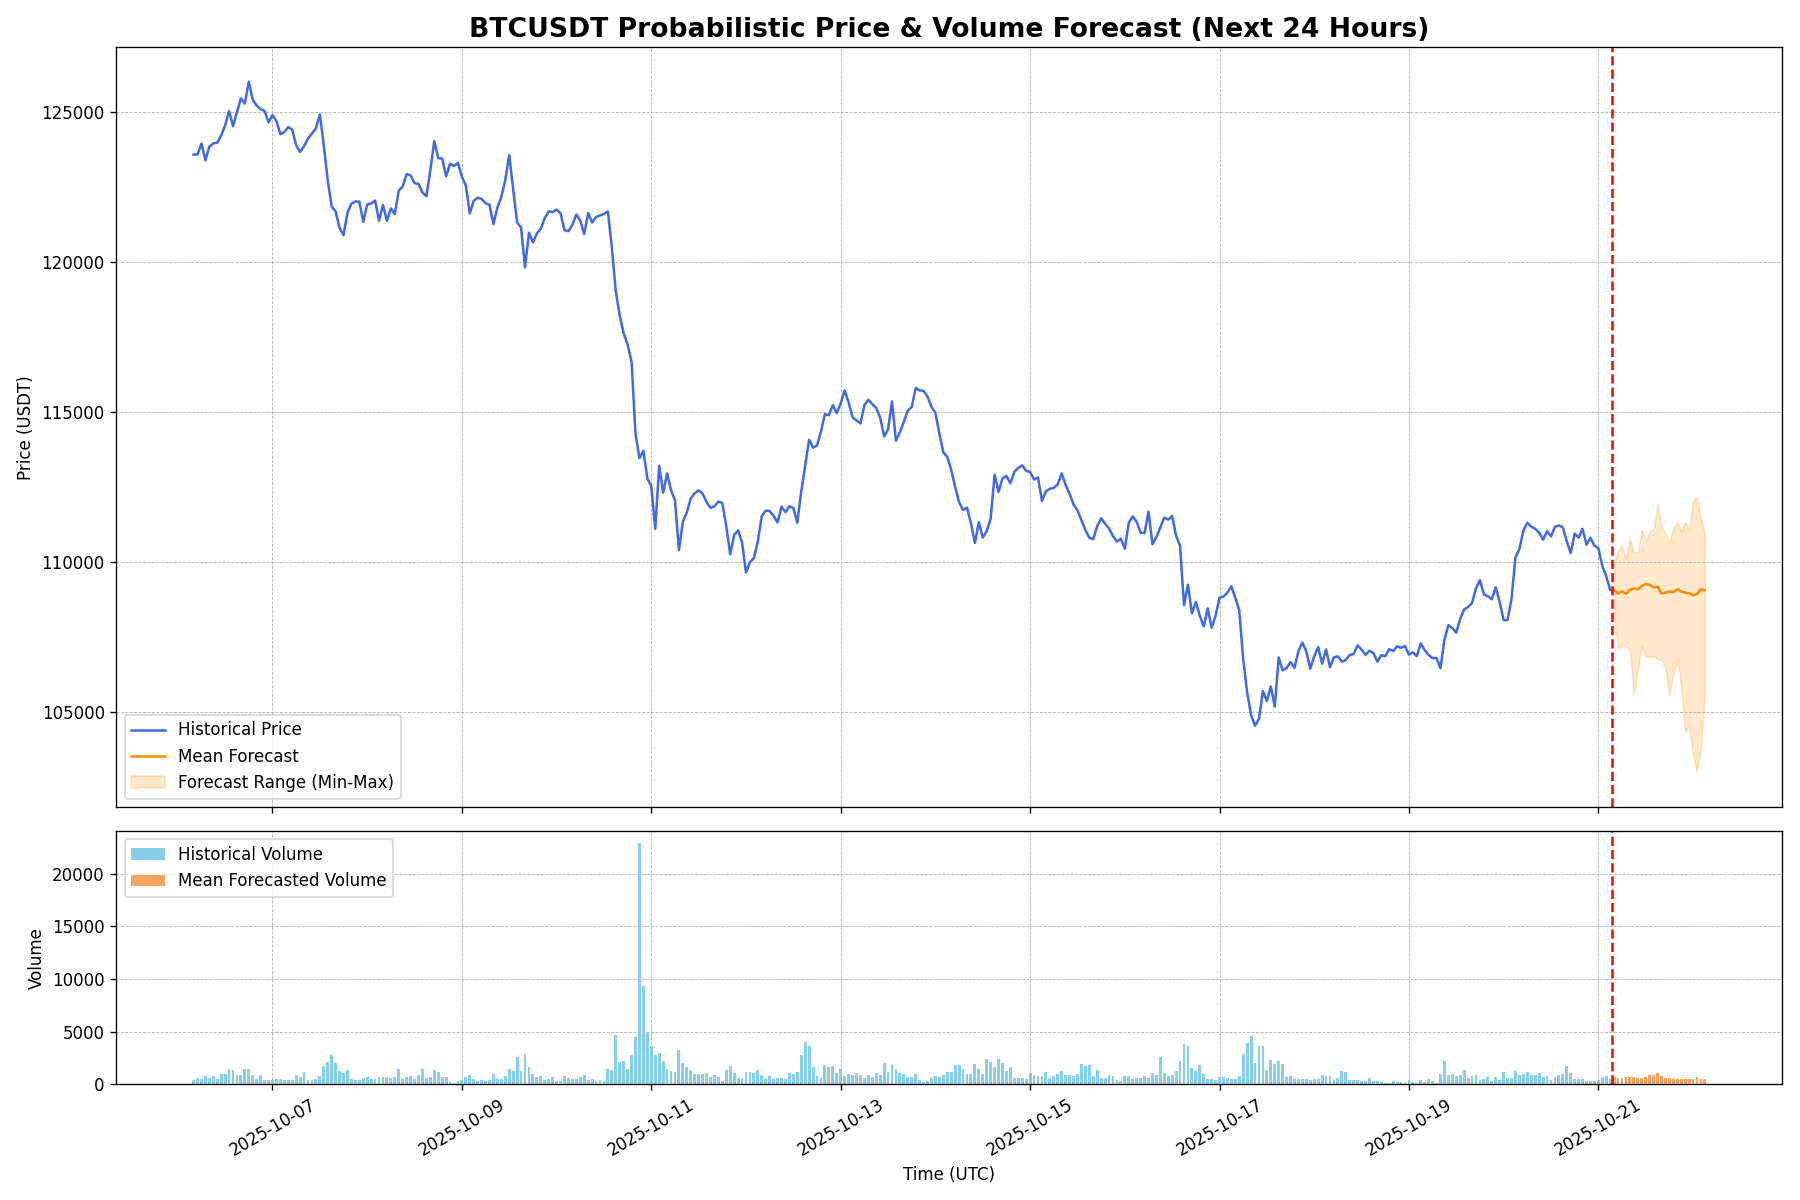
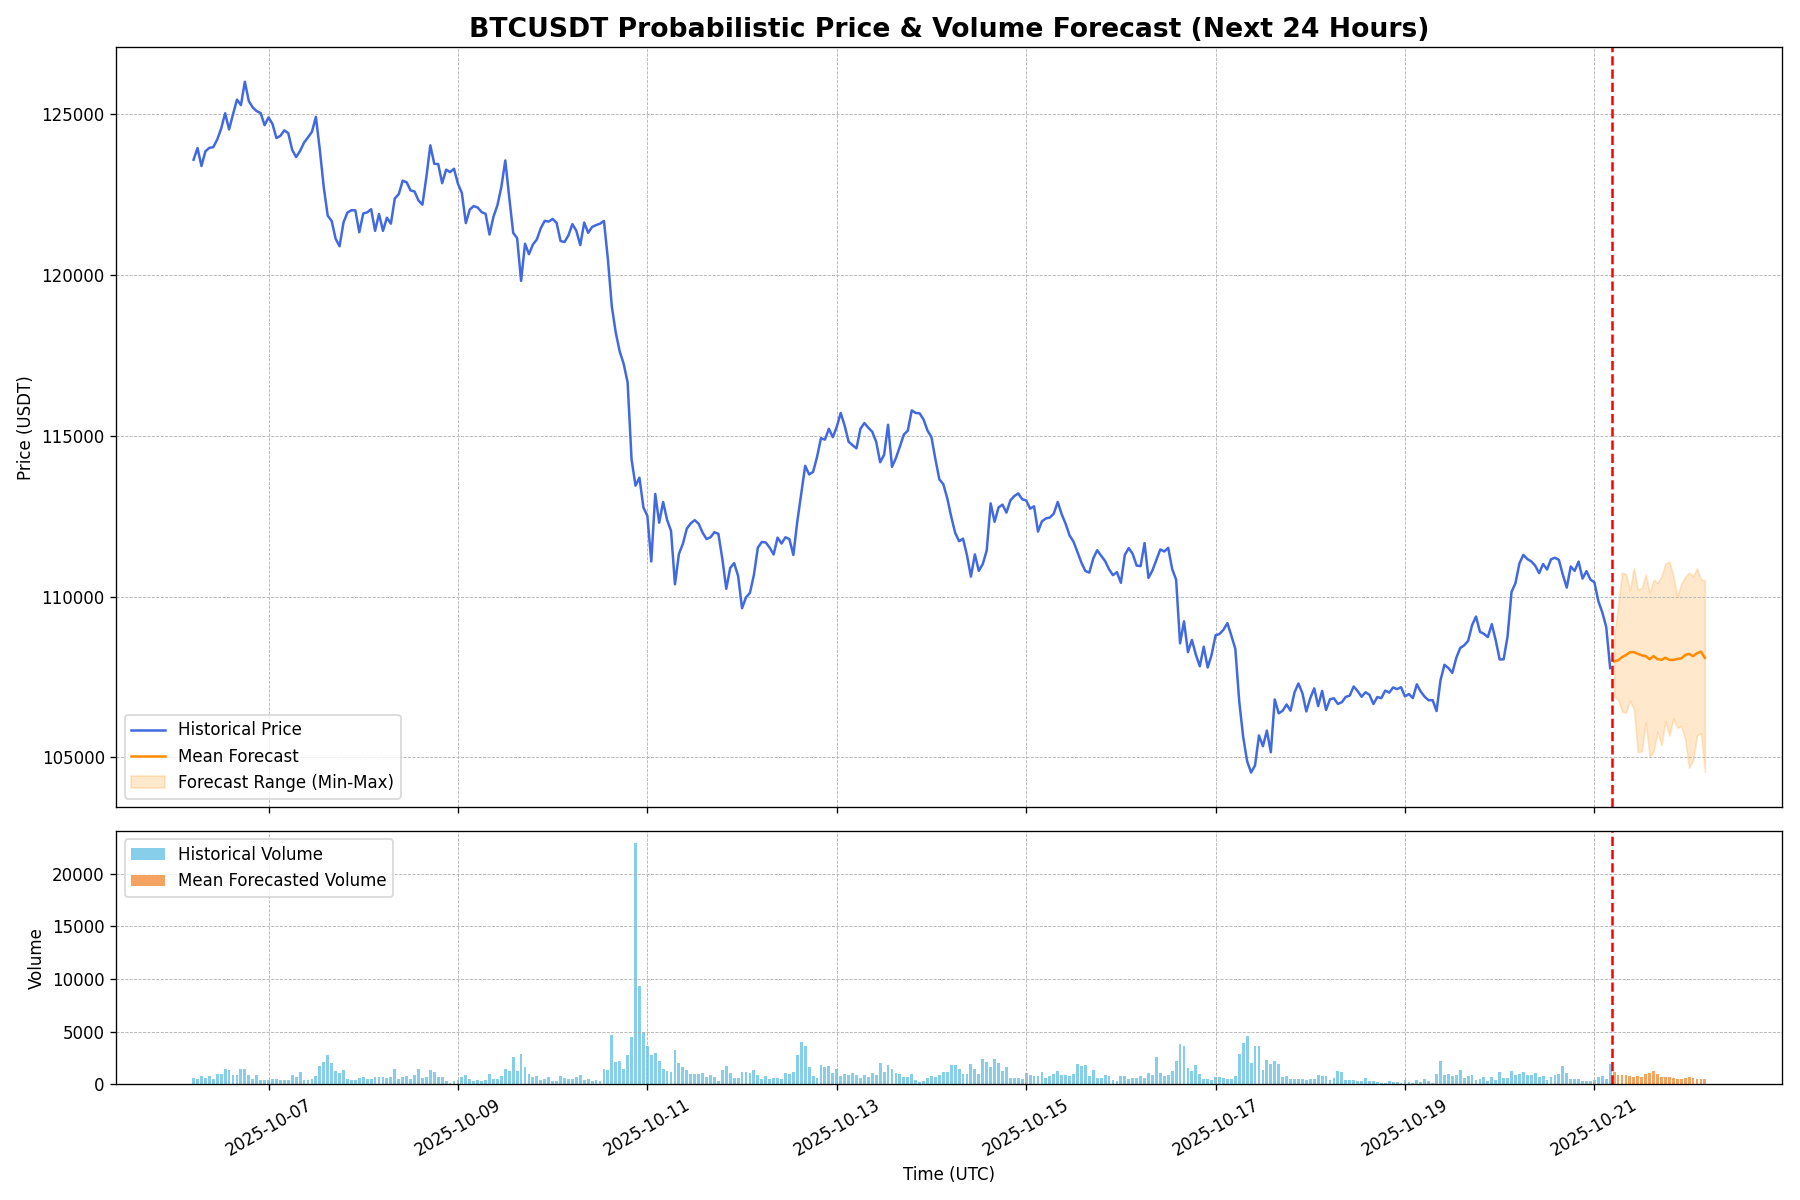
Auto-update forecast for 2025-10-21 05:01 UTC

diff --git a/index.html b/index.html
@@ -22,7 +22,7 @@
         <section id="live-dashboard">
             <h2>Live BTC/USDT Forecast Dashboard</h2>
             <div class="metadata">
-                <span>Last Updated (UTC): <strong id="update-time">2025-10-21 04:01:06</strong></span>
+                <span>Last Updated (UTC): <strong id="update-time">2025-10-21 05:01:07</strong></span>
                 <span>Data Source: Binance | Interval: 1-Hour</span>
             </div>
 
@@ -34,7 +34,7 @@
                 </div>
                 <div class="metric-card">
                     <h3>Volatility Amplification (Next 24h)</h3>
-                    <p class="metric-value" id="vol-amp-prob">83.3%</p>
+                    <p class="metric-value" id="vol-amp-prob">70.0%</p>
                     <div class="metric-desc">The probability that predicted volatility over the next 24h will exceed recent historical volatility.</div>
                 </div>
             </div>
